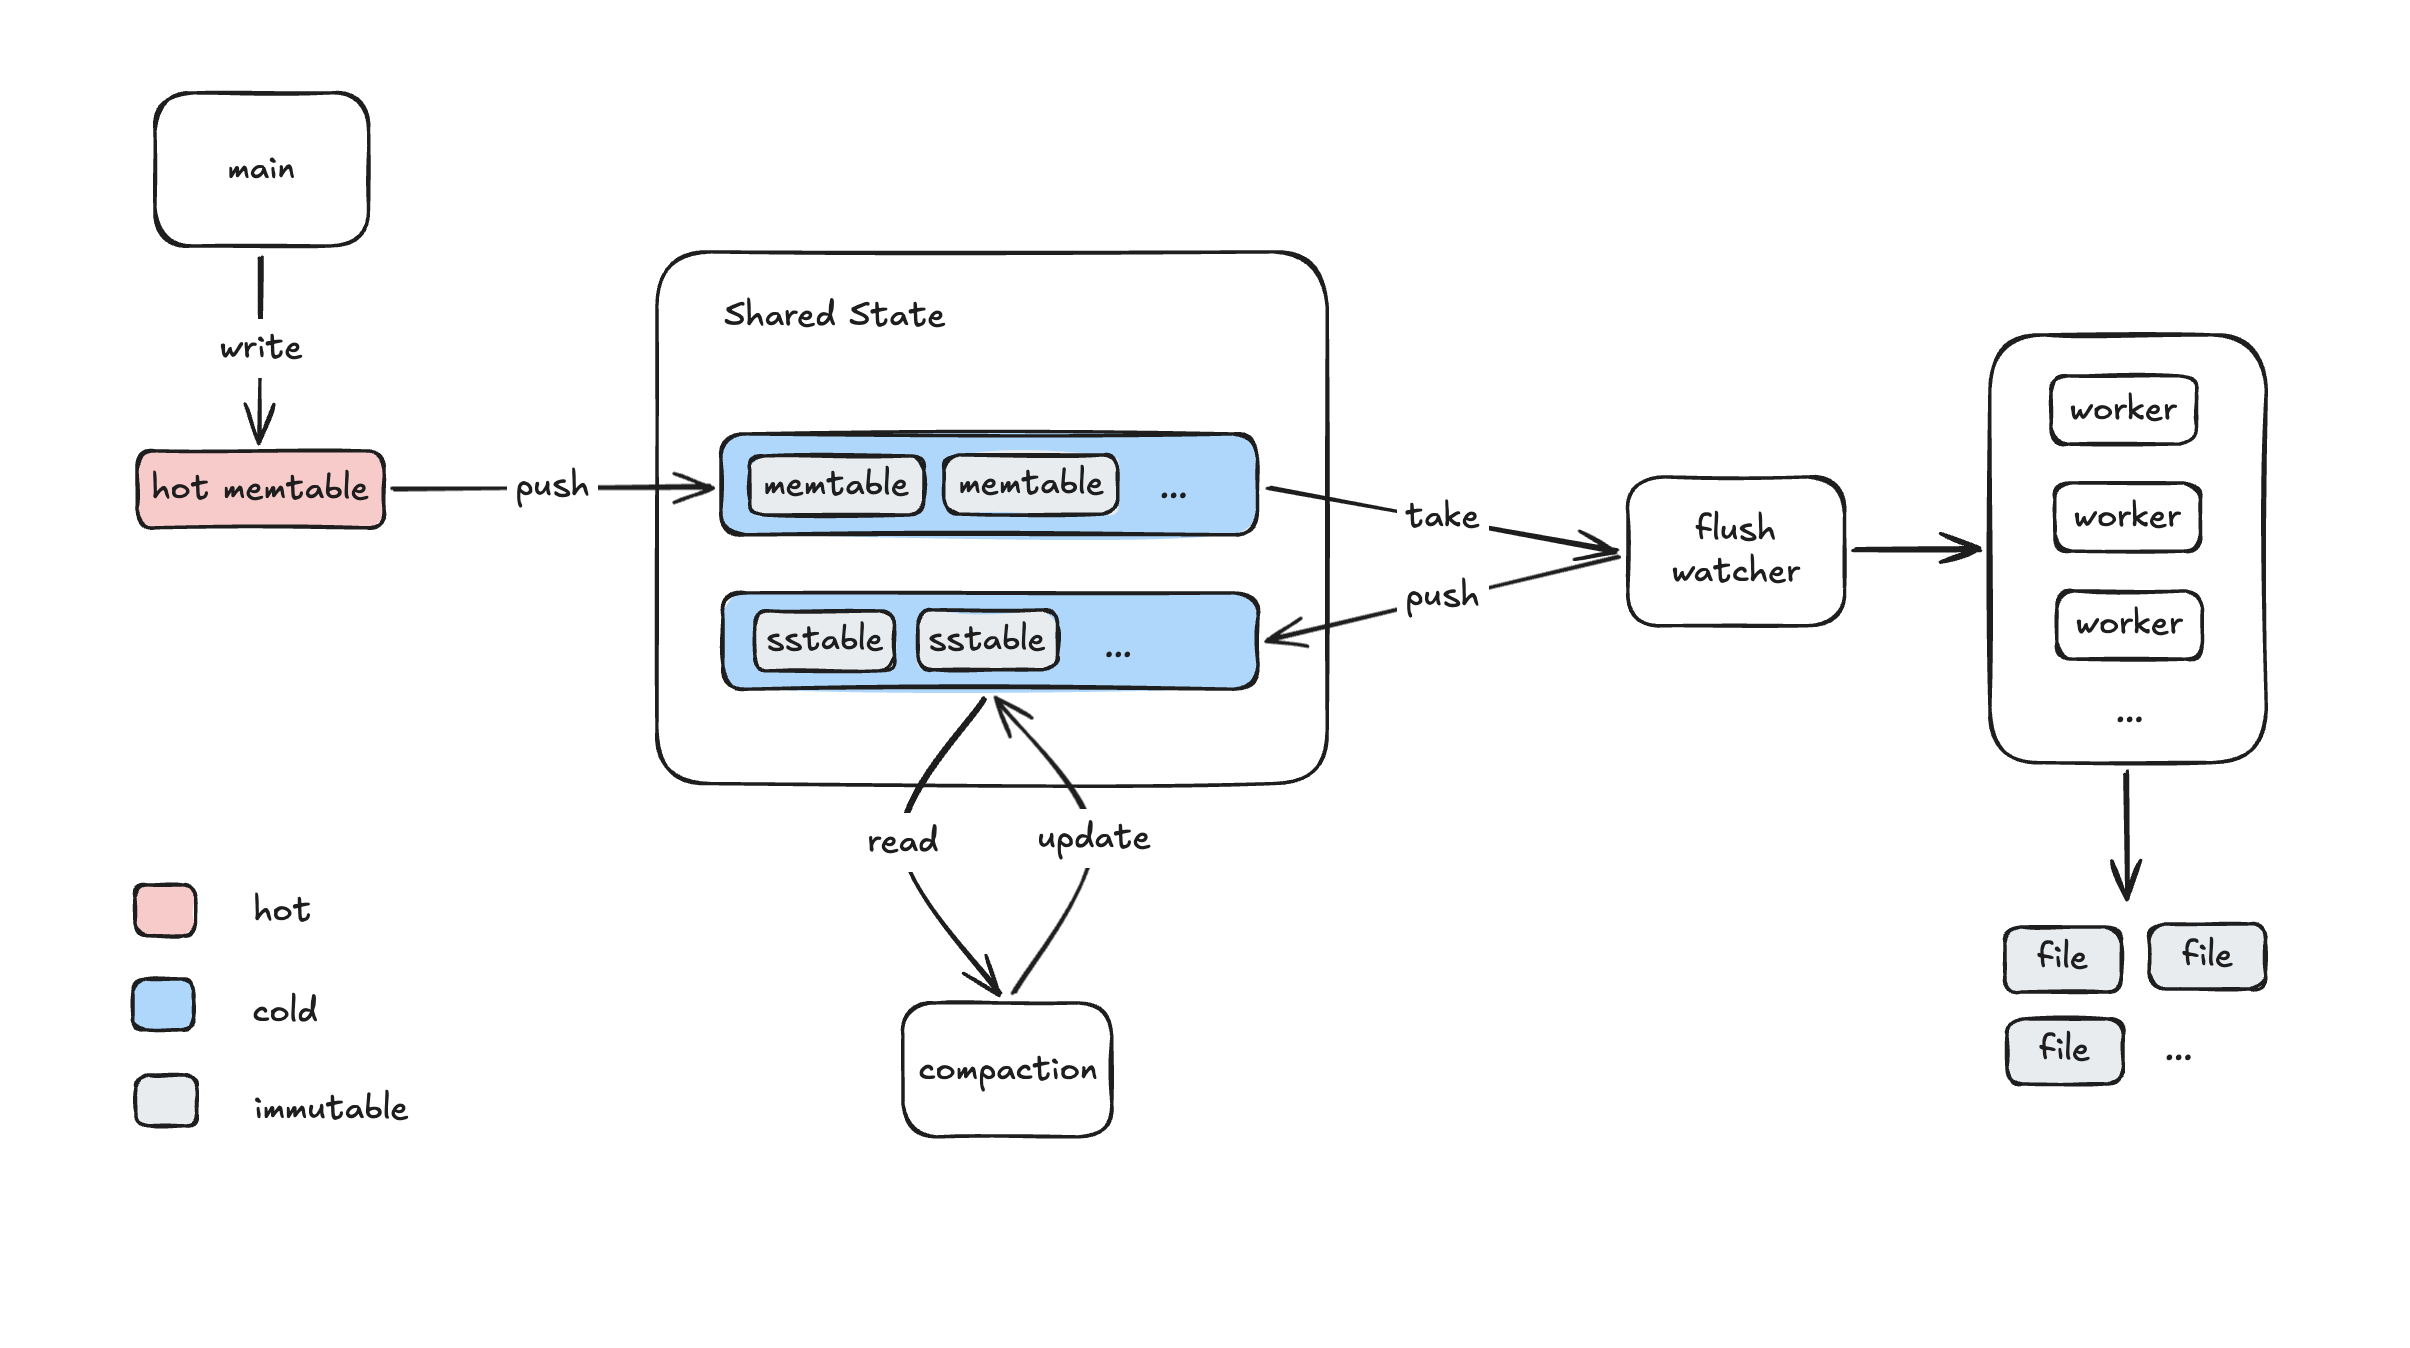
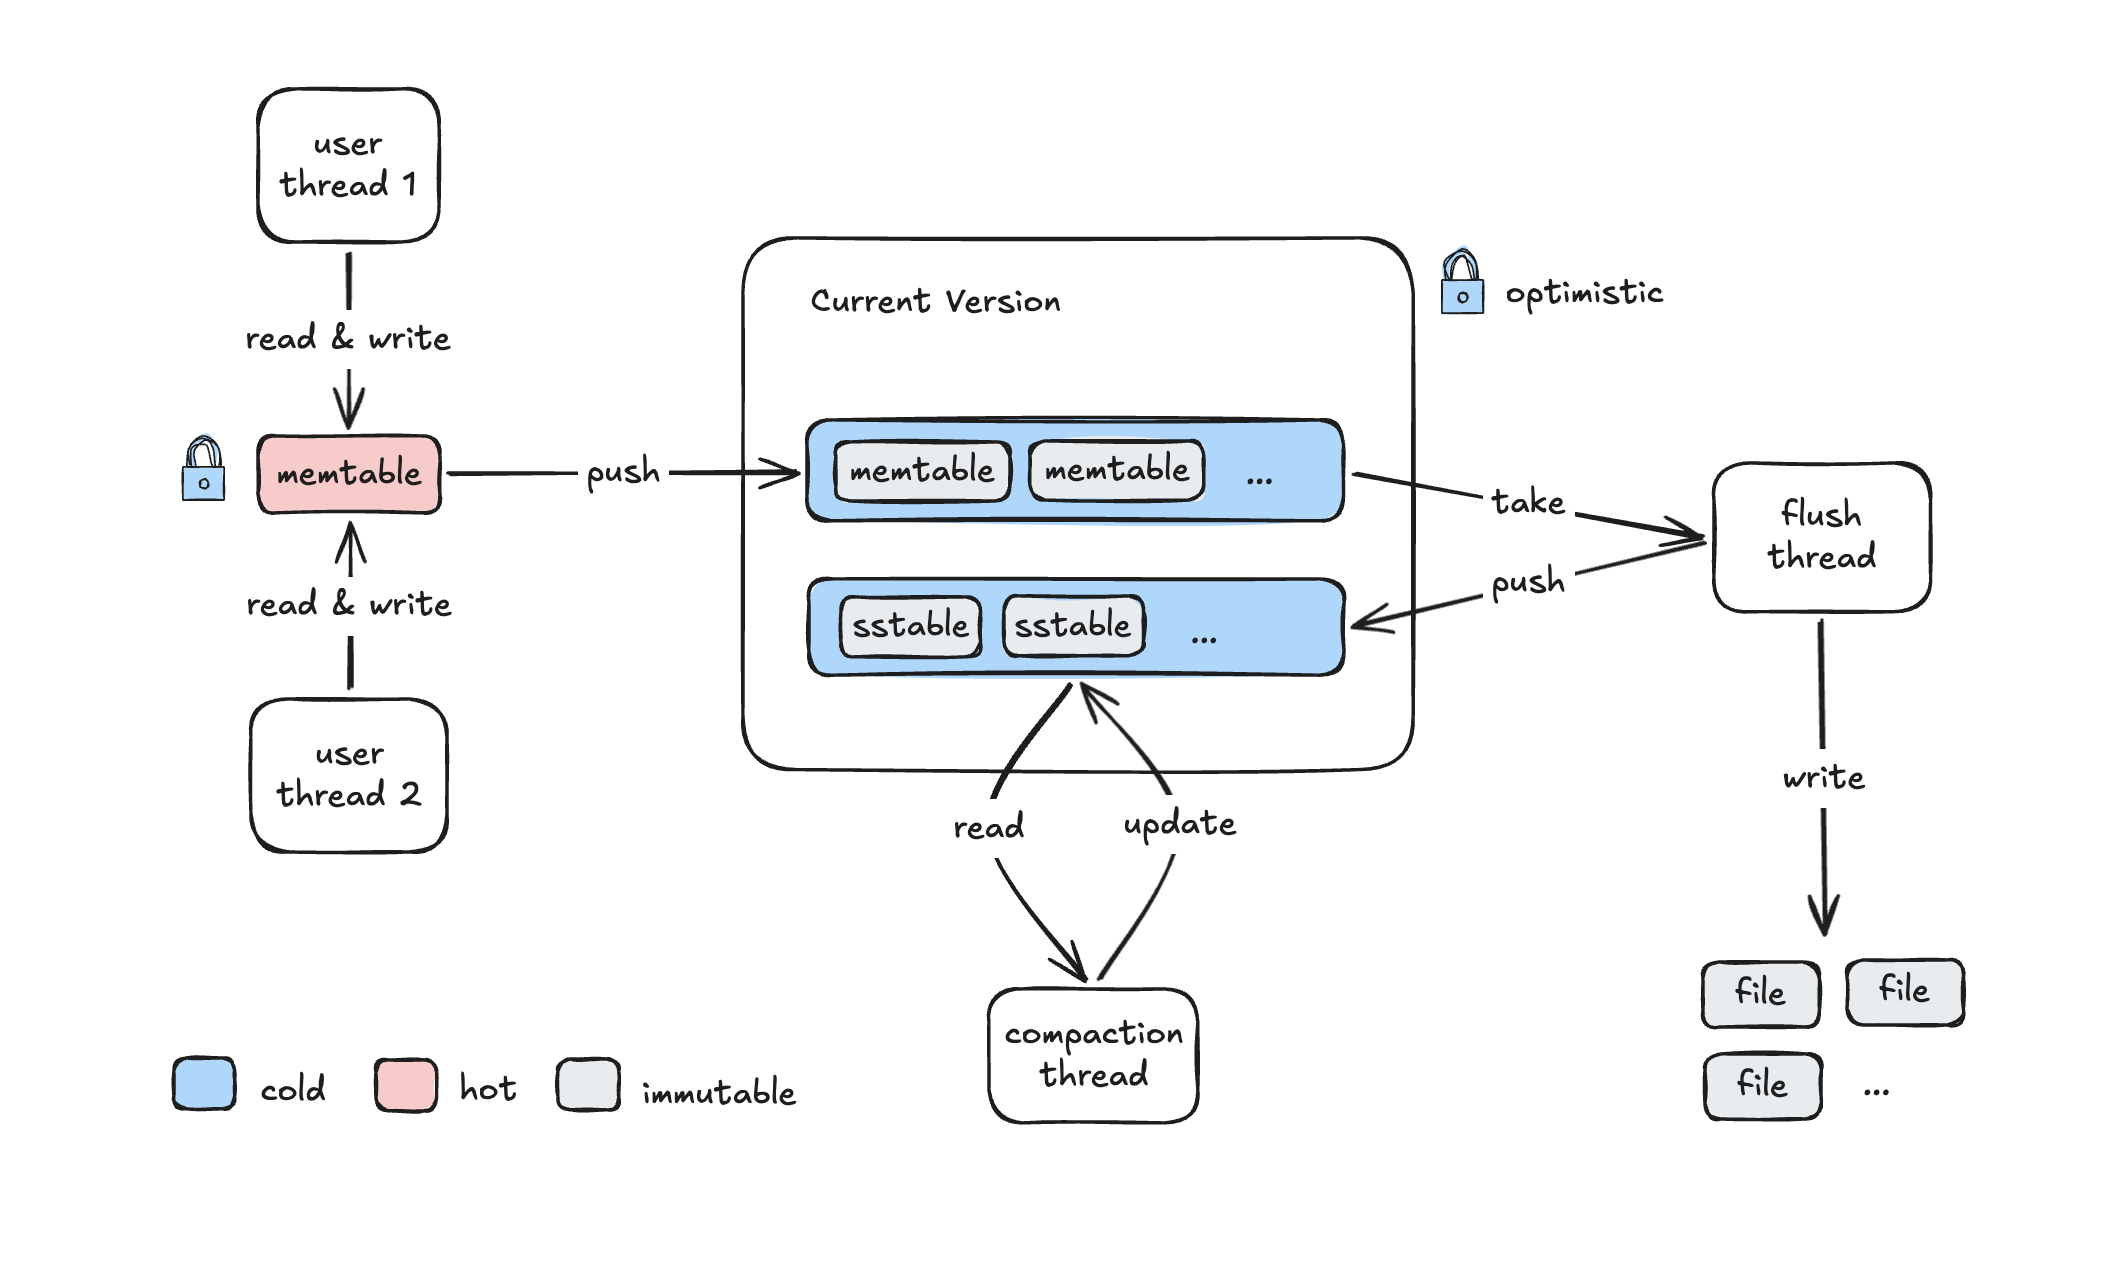
upd readme

diff --git a/README.md b/README.md
@@ -2,7 +2,14 @@
 
 <img width="100" alt="mossdb" src="./resources/logo.png" />
 
+Architecture
 ![](./resources/arch.png)
+Version
+![](./resources/version.png)
+Read path
+![](./resources/read.png)
+Write path
+![](./resources/write.png)
 
 - [ ] update the final architechture
 - [ ] the current arch
